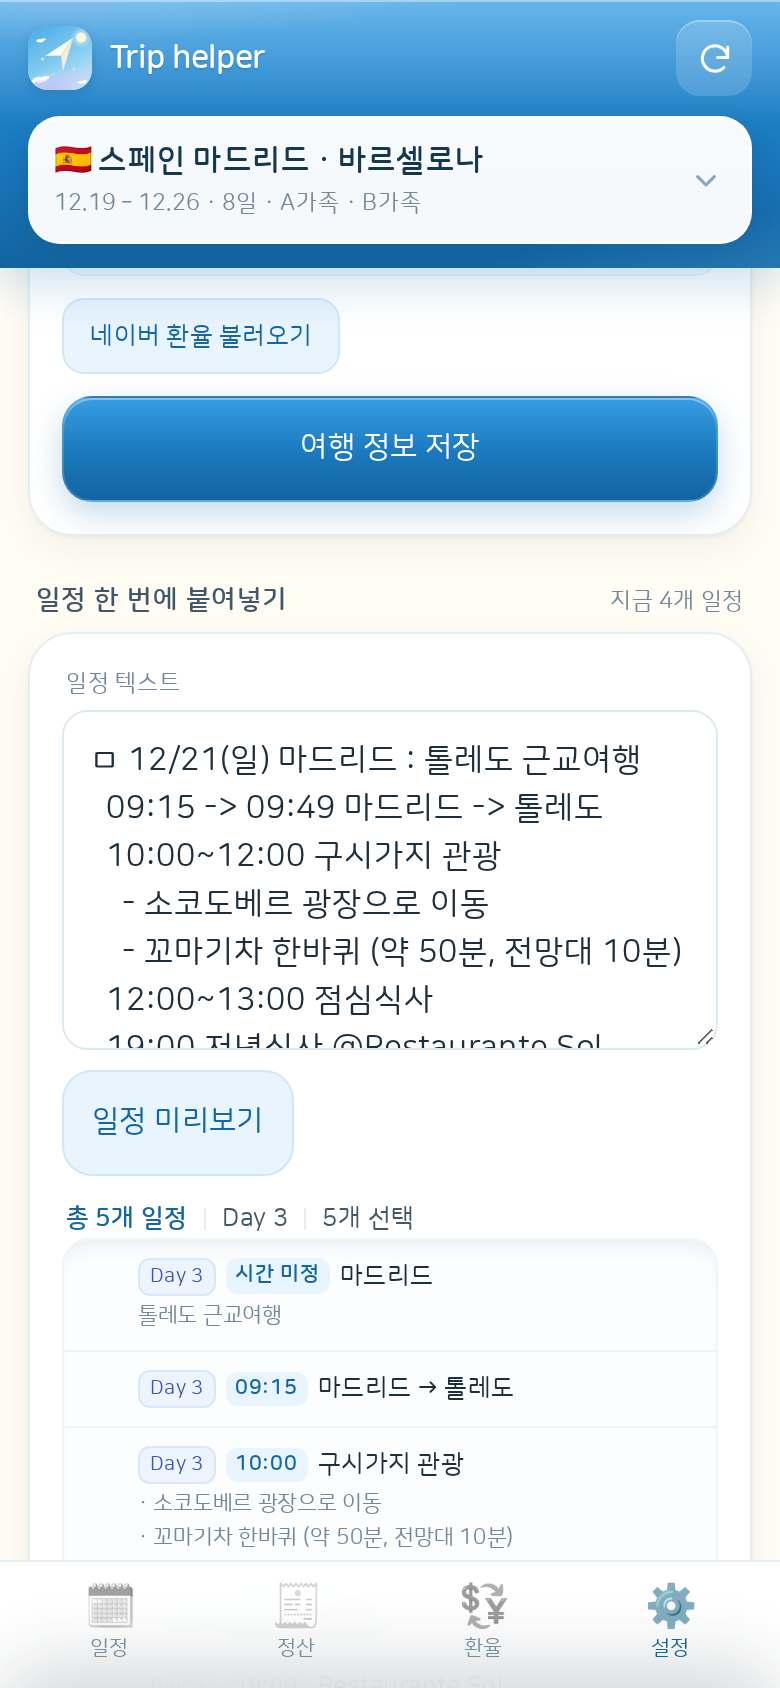
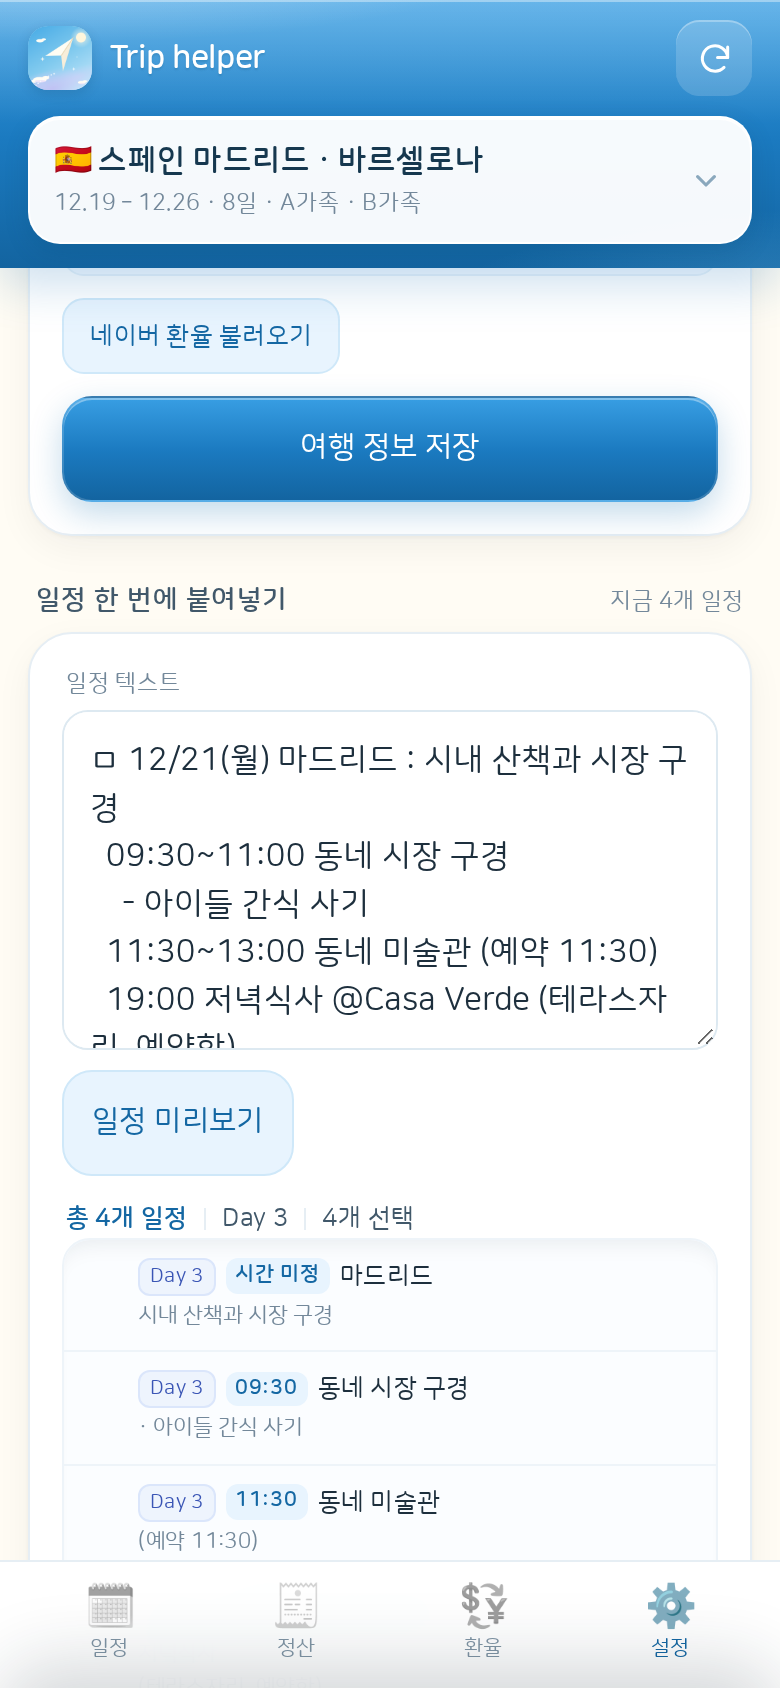
테스트 원문·붙여넣기 예시를 가상 샘플 일정으로 교체 — 실제 여행 일정 제거
- test/fixtures/spain-itinerary.txt → sample-itinerary.txt (가상 8일 샘플, 실제 여행과 무관)
- 파서 테스트 기대값 갱신(파싱 검증 강도 유지) + 연말·연초 날짜 테스트 추가
- API 붙여넣기 테스트·앱 placeholder·스크린샷 스크립트의 실제 일정 문구 교체
- docs/screenshots/06-settings-paste.png 가상 샘플로 재촬영

diff --git a/test/itinerary-parser.test.js b/test/itinerary-parser.test.js
@@ -1,6 +1,6 @@
 'use strict';
 /**
- * 일정 텍스트 파서 테스트 — 실제 스페인 일정 원문 + 간단한 Day/1일차/날짜 형식.
+ * 일정 텍스트 파서 테스트 — 가상 샘플 일정 원문 + 간단한 Day/1일차/날짜 형식.
  *   node --test test/itinerary-parser.test.js
  */
 const test = require('node:test');
@@ -10,79 +10,89 @@ const path = require('node:path');
 
 const { parseItinerary } = require('../lib/itinerary-parser');
 
-const SPAIN = fs.readFileSync(path.join(__dirname, 'fixtures', 'spain-itinerary.txt'), 'utf8');
-const SPAIN_TRIP = { startDate: '2026-12-26', endDate: '2027-01-02' };
+const SAMPLE = fs.readFileSync(path.join(__dirname, 'fixtures', 'sample-itinerary.txt'), 'utf8');
+const SAMPLE_TRIP = { startDate: '2027-05-01', endDate: '2027-05-08' };
 
 const find = (items, time, placePart) => items.find((it) => it.time === time && it.place.includes(placePart));
 
-test('자유 형식 일정 원문 — 일차·시간·장소·메모로 나뉜다 (스페인 일정 형식)', () => {
-  const { items, stats } = parseItinerary(SPAIN, SPAIN_TRIP);
+test('자유 형식 일정 원문 — 일차·시간·장소·메모로 나뉜다 (가상 샘플 일정 형식)', () => {
+  const { items, stats } = parseItinerary(SAMPLE, SAMPLE_TRIP);
 
   assert.ok(items.length >= 40, `일정이 충분히 나뉜다: ${items.length}개`);
   assert.equal(stats.count, items.length);
   assert.deepEqual(stats.days, [1, 2, 3, 4, 5, 6, 7, 8], `여행 8일에 모두 걸친다: ${stats.days.join(',')}`);
 
-  // 1일차 — 날짜 표기 없이 시작해도 첫날로 잡히고, 시간은 줄 앞의 07:25
-  const flight = items.find((it) => it.time === '07:25');
-  assert.ok(flight, '07:25 항공편 줄');
+  // 1일차 — 날짜 표기 없이 시작해도 첫날로 잡히고, 시간은 줄 앞의 10:20
+  const flight = items.find((it) => it.time === '10:20');
+  assert.ok(flight, '10:20 항공편 줄');
   assert.equal(flight.day, 1);
-  assert.match(flight.place, /마드리드/, `항공편 장소: ${flight.place}`);
-  assert.match(flight.memo, /일행 14:45 도착/, '괄호 안 도착 시각은 메모로');
-  assert.match(flight.memo, /Apartments Madrid/, '바로 아래 들여쓴 줄은 메모로');
+  assert.match(flight.place, /도쿄/, `항공편 장소: ${flight.place}`);
+  assert.match(flight.memo, /일행 13:40 도착/, '괄호 안 도착 시각은 메모로');
+  assert.match(flight.memo, /Aoi Stay 아사쿠사/, '바로 아래 들여쓴 줄은 메모로');
 
-  // `ㅁ 12/27(일)` → 여행 시작일(12/26) 기준 2일차
-  const train = find(items, '09:15', '톨레도');
-  assert.ok(train, '09:15 톨레도행 기차');
-  assert.equal(train.day, 2, '12/27 은 2일차');
-  assert.equal(train.place, '마드리드 → 톨레도', `이동 표기: ${train.place}`);
+  // `ㅁ 5/2(일)` → 여행 시작일(5/1) 기준 2일차
+  const train = find(items, '09:15', '하코네');
+  assert.ok(train, '09:15 하코네행 기차');
+  assert.equal(train.day, 2, '5/2 는 2일차');
+  assert.equal(train.place, '도쿄 → 하코네', `이동 표기: ${train.place}`);
 
-  // `10:00~12:00 구시가지 관광` → 시작 시간 + 장소, 하위 불릿은 메모
-  const oldTown = find(items, '10:00', '구시가지');
-  assert.ok(oldTown);
-  assert.equal(oldTown.day, 2);
-  assert.equal(oldTown.place, '구시가지 관광');
-  assert.match(oldTown.memo, /소코도베르 광장/);
-  assert.match(oldTown.memo, /전망대 → 다리 → 광장/, '화살표는 → 로 정리');
+  // `10:30~12:00 호수 주변 산책` → 시작 시간 + 장소, 하위 불릿은 메모
+  const walk = find(items, '10:30', '호수 주변 산책');
+  assert.ok(walk);
+  assert.equal(walk.day, 2);
+  assert.equal(walk.place, '호수 주변 산책');
+  assert.match(walk.memo, /전망 광장/);
+  assert.match(walk.memo, /정자 → 다리 → 광장/, '화살표는 → 로 정리');
 
-  // `ㅇ 저녁식사 19:00~ @Restaurante Sol` → @ 뒤 이름이 장소, 앞 문구는 메모
-  const dinner = find(items, '19:00', 'Restaurante Sol');
-  assert.ok(dinner, '19:00 Restaurante Sol');
+  // `ㅇ 저녁식사 19:00~ @Kaze Shokudo` → @ 뒤 이름이 장소, 앞 문구는 메모
+  const dinner = find(items, '19:00', 'Kaze Shokudo');
+  assert.ok(dinner, '19:00 Kaze Shokudo');
   assert.equal(dinner.memo.split('\n')[0], '저녁식사');
-  assert.match(dinner.memo, /프라도/);
-  const dinner2 = find(items, '19:15', 'Restaurante Luna');
-  assert.ok(dinner2, '19:15 Restaurante Luna');
+  assert.match(dinner.memo, /미술관/);
+  const dinner2 = find(items, '19:15', 'Midori Cafe');
+  assert.ok(dinner2, '19:15 Midori Cafe');
 
-  // `12/28` 3일차 — 이동 + 바르셀로나 항목은 지역 태그가 바르셀로나
-  const move = items.find((it) => it.day === 3 && it.place.includes('마드리드 → 바르셀로나'));
-  assert.ok(move, '12/28 마드리드 → 바르셀로나');
-  const palau = find(items, '10:00', '왕궁 투어');
-  assert.equal(palau.day, 3, '10:00~12:30 다음 줄 `- 왕궁 투어` 가 그 시간을 이어받는다');
-  assert.equal(palau.region, '', '12/28 은 마드리드·바르셀로나 두 도시라 지역 태그를 붙이지 않는다');
+  // `5/3` 3일차 — 이동 + 두 도시가 걸친 날은 지역 태그를 붙이지 않는다
+  const move = items.find((it) => it.day === 3 && it.place.includes('도쿄 → 교토 이동'));
+  assert.ok(move, '5/3 도쿄 → 교토 이동');
+  const palace = find(items, '10:00', '옛 궁전 정원 투어');
+  assert.equal(palace.day, 3, '10:00~12:30 다음 줄 `- 옛 궁전 정원 투어` 가 그 시간을 이어받는다');
+  assert.equal(palace.region, '', '5/3 은 도쿄·교토 두 도시라 지역 태그를 붙이지 않는다');
 
-  // `1/1` · `1/2` — 해가 바뀌어도 일차가 이어진다
-  const chocolate = items.find((it) => it.place.includes('초콜릿 박물관'));
-  assert.equal(chocolate.day, 7, '1/1 은 7일차');
-  assert.equal(chocolate.region, '바르셀로나');
-  const backHome = find(items, '15:30', '두바이');
-  assert.equal(backHome.day, 8, '1/2 은 8일차');
-  assert.equal(backHome.place, '바르셀로나 → 두바이');
-  assert.match(backHome.memo, /6시간 30분/);
+  // 5/7 · 5/8 — 마지막 이틀도 일차가 이어진다
+  const sweets = items.find((it) => it.place.includes('과자 박물관'));
+  assert.equal(sweets.day, 7, '5/7 은 7일차');
+  assert.equal(sweets.region, '교토');
+  const backHome = find(items, '15:30', '도쿄');
+  assert.equal(backHome.day, 8, '5/8 은 8일차');
+  assert.equal(backHome.place, '교토 → 도쿄');
+  assert.match(backHome.memo, /5시간 20분/);
 
-  // `-----바르셀로나 주요 컨텐츠-----` 참고 메모 구역은 일정으로 넣지 않는다
-  assert.ok(!items.some((it) => it.place.startsWith('몬주익 언덕')), '참고 메모 구역은 건너뛴다');
+  // `-----교토 주요 컨텐츠-----` 참고 메모 구역은 일정으로 넣지 않는다
+  assert.ok(!items.some((it) => `${it.place} ${it.memo}`.includes('조명 쇼')), '참고 메모 구역은 건너뛴다');
+  assert.ok(!items.some((it) => it.place.startsWith('아이들용')), '참고 메모 구역은 건너뛴다');
   assert.ok(stats.noteLines >= 4, `참고 메모 줄 수: ${stats.noteLines}`);
+});
+
+test('연말·연초 날짜도 일차가 이어진다', () => {
+  const { items } = parseItinerary(
+    ['12/31 10:00 출발 준비', '1/1 09:00 새해 첫 일정', '1/2 18:00 집으로'].join('\n'),
+    { startDate: '2026-12-31', endDate: '2027-01-02' }
+  );
+  assert.deepEqual(items.map((i) => i.day), [1, 2, 3]);
+  assert.deepEqual(items.map((i) => i.time), ['10:00', '09:00', '18:00']);
 });
 
 test('간단한 `Day 1 10:00 …` 형식', () => {
   const { items } = parseItinerary(
-    ['Day 1 10:00 프라도 미술관', '  - 예약 10:00, 아이들은 무료', 'Day 2 09:30 구엘 공원', '  사전 예약 필요', '13:00 점심 @La Boqueria'].join('\n'),
-    SPAIN_TRIP
+    ['Day 1 10:00 동네 미술관', '  - 예약 10:00, 아이들은 무료', 'Day 2 09:30 호수 공원', '  사전 예약 필요', '13:00 점심 @마루 상점가'].join('\n'),
+    SAMPLE_TRIP
   );
   assert.equal(items.length, 3);
   assert.deepEqual(items.map((i) => [i.day, i.time, i.place]), [
-    [1, '10:00', '프라도 미술관'],
-    [2, '09:30', '구엘 공원'],
-    [2, '13:00', 'La Boqueria'],
+    [1, '10:00', '동네 미술관'],
+    [2, '09:30', '호수 공원'],
+    [2, '13:00', '마루 상점가'],
   ]);
   assert.match(items[0].memo, /예약 10:00/, '일차 줄에 붙은 일정의 하위 불릿은 그 일정 메모로');
   assert.equal(items[1].memo, '사전 예약 필요');
@@ -92,7 +102,7 @@ test('간단한 `Day 1 10:00 …` 형식', () => {
 test('`1일차` 형식과 날짜 없는 메모', () => {
   const { items } = parseItinerary(
     ['1일차', '  09:00 호텔 조식', '  - 근처 산책', '  14:00 시내 투어', '2일차', '  10:00 박물관'].join('\n'),
-    SPAIN_TRIP
+    SAMPLE_TRIP
   );
   assert.deepEqual(items.map((i) => [i.day, i.time, i.place]), [
     [1, '09:00', '호텔 조식'],
@@ -103,29 +113,29 @@ test('`1일차` 형식과 날짜 없는 메모', () => {
   assert.equal(items[0].memo, '');
 });
 
-test('`12월 27일` · `2026-12-27` 날짜 표기도 일차로 계산', () => {
-  const month = parseItinerary('12월 27일\n10:00~12:00 구시가지 관광\n12월 28일\n09:15 마드리드 -> 톨레도', SPAIN_TRIP);
+test('`5월 2일` · `2027-05-02` 날짜 표기도 일차로 계산', () => {
+  const month = parseItinerary('5월 2일\n10:30~12:00 호수 주변 산책\n5월 3일\n09:15 도쿄 -> 하코네', SAMPLE_TRIP);
   assert.deepEqual(month.items.map((i) => i.day), [2, 3]);
 
-  const iso = parseItinerary('2026-12-27 09:00 기차', SPAIN_TRIP);
+  const iso = parseItinerary('2027-05-02 09:00 기차', SAMPLE_TRIP);
   assert.equal(iso.items[0].day, 2);
   assert.equal(iso.items[0].time, '09:00');
   assert.equal(iso.items[0].place, '기차');
 });
 
 test('여행 기간을 벗어난 날짜는 1~총일수로 보정', () => {
-  const before = parseItinerary('12/20 10:00 출발', SPAIN_TRIP);
+  const before = parseItinerary('4/20 10:00 출발', SAMPLE_TRIP);
   assert.equal(before.items[0].day, 1, '시작 전 날짜는 1일차로');
 
-  const after = parseItinerary('3/15 10:00 너무 먼 날', SPAIN_TRIP);
+  const after = parseItinerary('9/15 10:00 너무 먼 날', SAMPLE_TRIP);
   assert.equal(after.items[0].day, 8, '끝난 뒤 날짜는 마지막 날로');
 
-  const day99 = parseItinerary('Day 99 10:00 엉뚱한 날', SPAIN_TRIP);
+  const day99 = parseItinerary('Day 99 10:00 엉뚱한 날', SAMPLE_TRIP);
   assert.equal(day99.items[0].day, 8);
 });
 
 test('시작일이 없으면 첫 날짜를 1일차로 세고, 없으면 모두 1일차', () => {
-  const dated = parseItinerary('12/27 10:00 구시가지\n12/28 09:00 기차', {});
+  const dated = parseItinerary('5/2 10:00 시장 골목\n5/3 09:00 기차', {});
   assert.deepEqual(dated.items.map((i) => i.day), [1, 2]);
 
   const plain = parseItinerary('그냥 메모\n아무 일정', {});
@@ -133,7 +143,7 @@ test('시작일이 없으면 첫 날짜를 1일차로 세고, 없으면 모두 1
 });
 
 test('지역 태그 — 장소·메모의 도시 이름, 없으면 빈 문자열', () => {
-  const out = parseItinerary('Day 1 10:00 도쿄 타워\nDay 2 11:00 점심 @이치란 라멘\nDay 3 12:00 산책', { startDate: '2027-04-01', endDate: '2027-04-04' });
+  const out = parseItinerary('Day 1 10:00 도쿄 시내 산책\nDay 2 11:00 점심 @마루 상점가\nDay 3 12:00 산책', { startDate: '2027-04-01', endDate: '2027-04-04' });
   assert.equal(out.items[0].region, '도쿄');
   assert.equal(out.items[1].region, '');
   assert.equal(out.items[2].region, '');
@@ -141,15 +151,15 @@ test('지역 태그 — 장소·메모의 도시 이름, 없으면 빈 문자열
 
 test('빈 입력·이상한 입력에도 던지지 않는다', () => {
   for (const text of ['', '   ', '\n\n\n', null, undefined]) {
-    const out = parseItinerary(text, SPAIN_TRIP);
+    const out = parseItinerary(text, SAMPLE_TRIP);
     assert.equal(out.items.length, 0, `${JSON.stringify(text)} → 0개`);
   }
-  const long = parseItinerary('Day 1 10:00 장소\n'.repeat(4000), SPAIN_TRIP);
+  const long = parseItinerary('Day 1 10:00 장소\n'.repeat(4000), SAMPLE_TRIP);
   assert.ok(long.items.length > 0 && long.items.length <= 300, `상한 300개: ${long.items.length}`);
 });
 
 test('장소·메모는 저장 스키마 길이 안으로 다듬어진다', () => {
-  const { items } = parseItinerary(`Day 1 10:00 ${'아주긴장소이름'.repeat(20)}\n  - ${'메모'.repeat(400)}`, SPAIN_TRIP);
+  const { items } = parseItinerary(`Day 1 10:00 ${'아주긴장소이름'.repeat(20)}\n  - ${'메모'.repeat(400)}`, SAMPLE_TRIP);
   assert.ok(items[0].place.length <= 80, `장소 ${items[0].place.length}자`);
   assert.ok(items[0].memo.length <= 500, `메모 ${items[0].memo.length}자`);
 });

diff --git a/test/api.test.js b/test/api.test.js
@@ -343,7 +343,7 @@ test('일정 CRUD + 구글지도 링크', async () => {
   const trip = await newTrip({ name: '일정 테스트', startDate: '2027-10-01', endDate: '2027-10-03', template: 'twoFamilies' });
   const created = await call(`/api/trips/${trip.id}/itinerary`, {
     method: 'POST',
-    body: { day: 2, time: '09:30', place: '사그라다 파밀리아', region: '바르셀로나', memo: '예약 10:00', mapUrl: 'https://maps.app.goo.gl/example' },
+    body: { day: 2, time: '09:30', place: '동네 미술관', region: '도쿄', memo: '예약 10:00', mapUrl: 'https://maps.app.goo.gl/example' },
   });
   assert.equal(created.status, 201);
   const item = created.data.itinerary[0];
@@ -365,13 +365,13 @@ test('일정 CRUD + 구글지도 링크', async () => {
 });
 
 test('일정 텍스트 미리보기(/parse)와 한 번에 등록(/bulk)', async () => {
-  const trip = await newTrip({ name: '붙여넣기 테스트', startDate: '2026-12-26', endDate: '2027-01-02', template: 'twoFamilies' });
+  const trip = await newTrip({ name: '붙여넣기 테스트', startDate: '2027-05-01', endDate: '2027-05-08', template: 'twoFamilies' });
   const text = [
-    'ㅁ 12/27(일) 마드리드 : 톨레도 근교여행',
-    '  09:15 -> 09:49 마드리드 -> 톨레도',
-    '  10:00~12:00 구시가지 관광',
-    '    - 소코도베르 광장으로 이동',
-    '  19:00 저녁식사 @Restaurante Sol (예약)',
+    'ㅁ 5/2(일) 도쿄 : 하코네 근교여행',
+    '  09:15 -> 10:05 도쿄 -> 하코네',
+    '  10:30~12:00 호수 주변 산책',
+    '    - 전망 광장으로 이동',
+    '  19:00 저녁식사 @Kaze Shokudo (예약)',
   ].join('\n');
 
   const parsed = await call(`/api/trips/${trip.id}/itinerary/parse`, { method: 'POST', body: { text } });
@@ -379,11 +379,11 @@ test('일정 텍스트 미리보기(/parse)와 한 번에 등록(/bulk)', async 
   assert.equal(parsed.data.ok, true);
   assert.ok(parsed.data.items.length >= 3, `파싱된 일정 ${parsed.data.items.length}개`);
   const train = parsed.data.items.find((i) => i.time === '09:15');
-  assert.equal(train.day, 2, '12/27 → 2일차');
-  assert.equal(train.place, '마드리드 → 톨레도');
-  const tour = parsed.data.items.find((i) => i.place === '구시가지 관광');
-  assert.equal(tour.time, '10:00');
-  assert.match(tour.memo, /소코도베르/);
+  assert.equal(train.day, 2, '5/2 → 2일차');
+  assert.equal(train.place, '도쿄 → 하코네');
+  const tour = parsed.data.items.find((i) => i.place === '호수 주변 산책');
+  assert.equal(tour.time, '10:30');
+  assert.match(tour.memo, /전망 광장/);
   assert.deepEqual(parsed.data.stats.days, [2]);
 
   // 빈 본문은 400 안내

diff --git a/public/app.js b/public/app.js
@@ -1238,11 +1238,11 @@
   const bulkDraft = { text: '', parsed: null, selected: null, mode: 'append', busy: false };
 
   const BULK_PLACEHOLDER = [
-    '12/27(일) 마드리드 : 톨레도 근교여행',
-    '09:15 -> 09:49 마드리드 -> 톨레도',
-    '10:00~12:00 구시가지 관광',
-    '  - 소코도베르 광장으로 이동',
-    '19:00 저녁식사 @Restaurante Sol (예약)',
+    '5/2(일) 도쿄 : 하코네 근교여행',
+    '09:15 -> 10:05 도쿄 -> 하코네',
+    '10:30~12:00 호수 주변 산책',
+    '  - 전망 광장으로 이동',
+    '19:00 저녁식사 @Kaze Shokudo (예약)',
   ].join('\n');
 
   function bulkDaysLabel() {

diff --git a/README.md b/README.md
@@ -52,7 +52,7 @@ npm start          # http://localhost:3000
 
 ```bash
 npm run dev        # 개발 모드
-npm test           # 단위 + API 테스트 (67개)
+npm test           # 단위 + API 테스트 (68개)
 npm run test:ui    # Playwright 아이폰 390×844 E2E (19단계)
 npm run screenshots # 실제 화면 스크린샷 생성
 npm run icons      # 홈 화면 아이콘 PNG 재생성 (public/icon-source.svg)
@@ -82,7 +82,7 @@ docker run -p 3000:3000 -v tripdata:/data -e DATA_DIR=/data trip-helper
 - 비밀번호는 `DATA_DIR/pin.json`에 `salt` + `scrypt` 해시로만 저장되고 소스 코드에는 어떤 값도 두지 않습니다. `APP_PIN` 환경변수가 있으면 파일보다 우선합니다.
 - 비밀번호를 바꾸면 서명 키(해시·salt)가 바뀌므로 **이전에 발급한 토큰이 모두 즉시 무효**가 됩니다. 첫 설정(`POST /api/pin/setup`)은 PIN 이 없을 때 1회만 되고, 그 뒤에는 `409`로 막힙니다.
 - 코드는 추측하기 어려운 6자리(혼동 문자 제외)로 자동 생성되고, 다른 여행 코드와 겹치지 않게 발급됩니다.
-- 저장소·테스트·시드 데이터에는 개인정보(실명·전화번호 등)가 들어 있지 않습니다.
+- 저장소·테스트·시드 데이터에는 개인정보(실명·전화번호 등)가 들어 있지 않습니다. 일정 파서 테스트가 쓰는 원문(`test/fixtures/sample-itinerary.txt`)도 실제 여행과 무관한 가상 샘플입니다.
 
 ## HTTP API
 
@@ -149,7 +149,7 @@ test/                단위(settle) + API 통합 테스트
 ## 테스트 현황
 
 - 단위 17개: 환산, 5가지 분담 방식, 인원 변경 재계산, 최소 송금, 반올림 오차, 혼합 통화
-- 파서 9개: 실제 스페인 일정 원문(8일·40개 이상), `Day 1 10:00`, `1일차`, `12월 27일`·`2026-12-27`, 범위 밖 날짜 보정, 시작일 없음, 지역 태그, 빈 입력·이상한 입력, 길이 상한
+- 파서 10개: 가상 샘플 일정 원문(8일·48개), `Day 1 10:00`, `1일차`, `5월 2일`·`2027-05-02`, 연말·연초 날짜, 범위 밖 날짜 보정, 시작일 없음, 지역 태그, 빈 입력·이상한 입력, 길이 상한
 - API 20개: 시드, 코드 라우팅, 여행·참여자·지출·일정 CRUD, 일정 미리보기·한 번에 등록(추가·교체·검증 오류), 409 이관, 최소 2명, 검증 오류, 폴링, 동시 쓰기 10건 무손실, 파일 영속성
 - PIN 11개: 미설정 시 통과, 4자리 형식, 1회 설정·중복 409, 미인증 401(여행·환율·일정 파싱/벌크), 헤더·쿠키 토큰, 만료·변조 토큰, 변경 시 기존 토큰 무효, 평문 미저장, `APP_PIN`, 시도 제한 429
 - UI E2E 19단계: 4탭 골격(글로시 바·고정 탭·파스텔 아바타), 로컬 나눔스퀘어라운드 폰트 실로딩·프리캐시, 지출 추가→정산, 설정 탭에서 인원 변경, 호칭 변경 반영, 일정·구글지도·일정→지출, 여행 중 지난 일정 접기, 설정 탭 일정 붙여넣기→미리보기→체크 해제→반영→일정 탭 등록 확인, 친구 5명 여행 생성·전환, 두 기기 동기화, `?trip=` 진입, 오프라인 저장·복귀(공유 링크 `/t/CODE` 새로고침에서도 일정·정산·€10 환산, 저장 시도는 친절한 토스트), 여행 삭제·다른 기기 삭제 시 폰 캐시 정리, 마지막 여행 삭제, 4자리 PIN 잠금·오답 안내·자동 통과, 설정에서 PIN 변경 시 다른 기기 재잠금, 무효 토큰 401 시 폰 저장 내용 삭제, 콘솔 오류 0건
